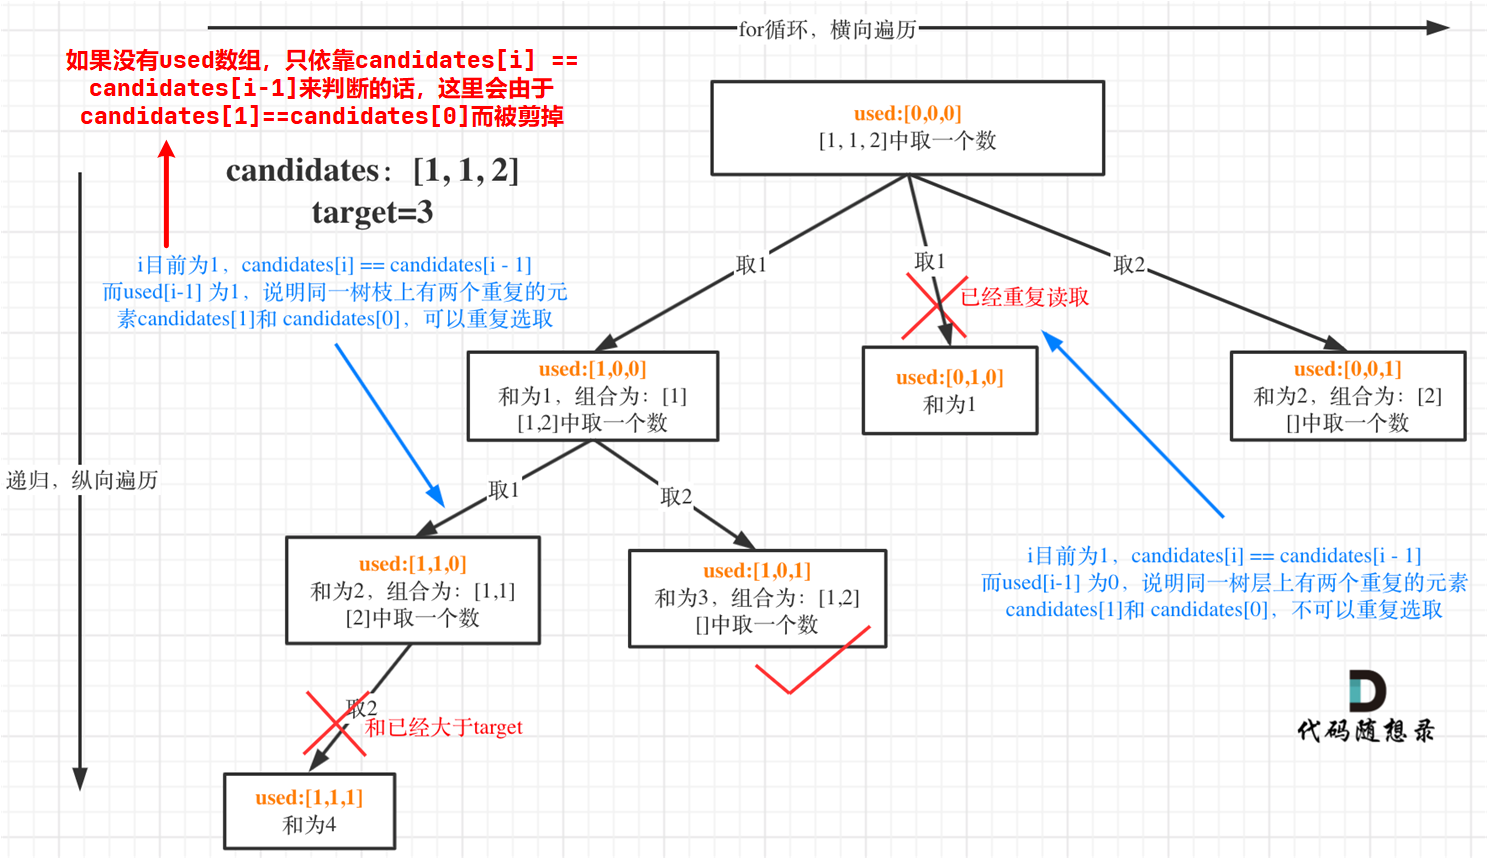
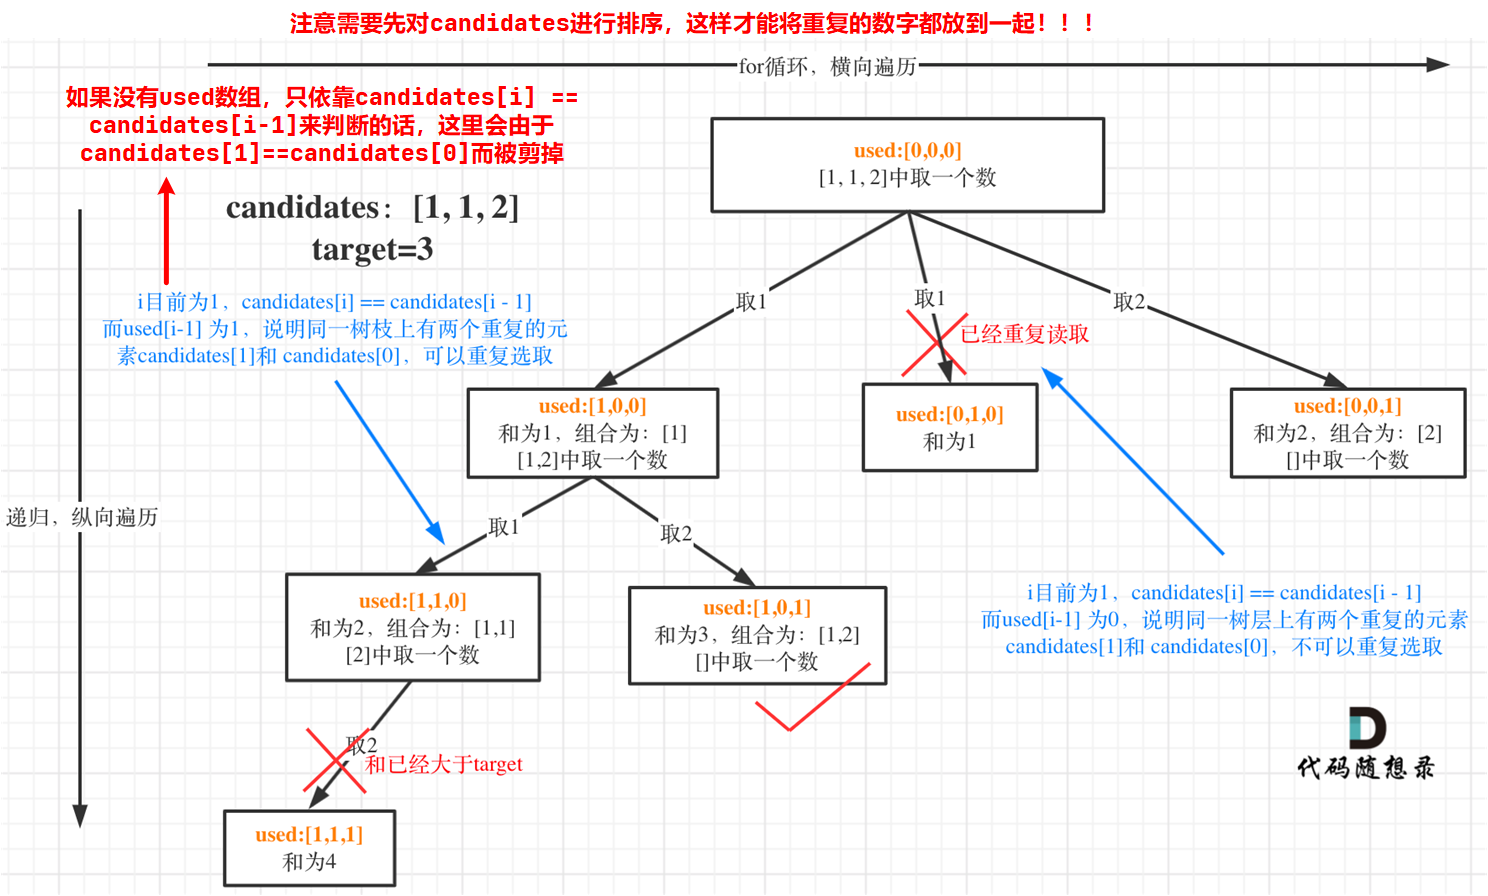
修正部分描述

diff --git a/回溯算法篇/0040. 组合总和 II.md b/回溯算法篇/0040. 组合总和 II.md
@@ -70,6 +70,8 @@ if (curSum == target){//基线条件
 - 如果`used[i - 1] == true`，说明同一树枝`candidates[i - 1]`使用过，这个不应该被过滤掉
 - 如果`used[i - 1] == false`，说明同一树层`candidates[i - 1]`使用过，这个应该被过滤掉
 
+注意<strong>在使用`candidates[i] == candidates[i - 1]`对树层去重的前提是，先将数组进行排序，这样才能将重复的数字放到一起！</strong>
+
 ```java
 for (int i = start; i < candidates.length; i++){
     if (curSum + candidates[i] > target){//剪枝
